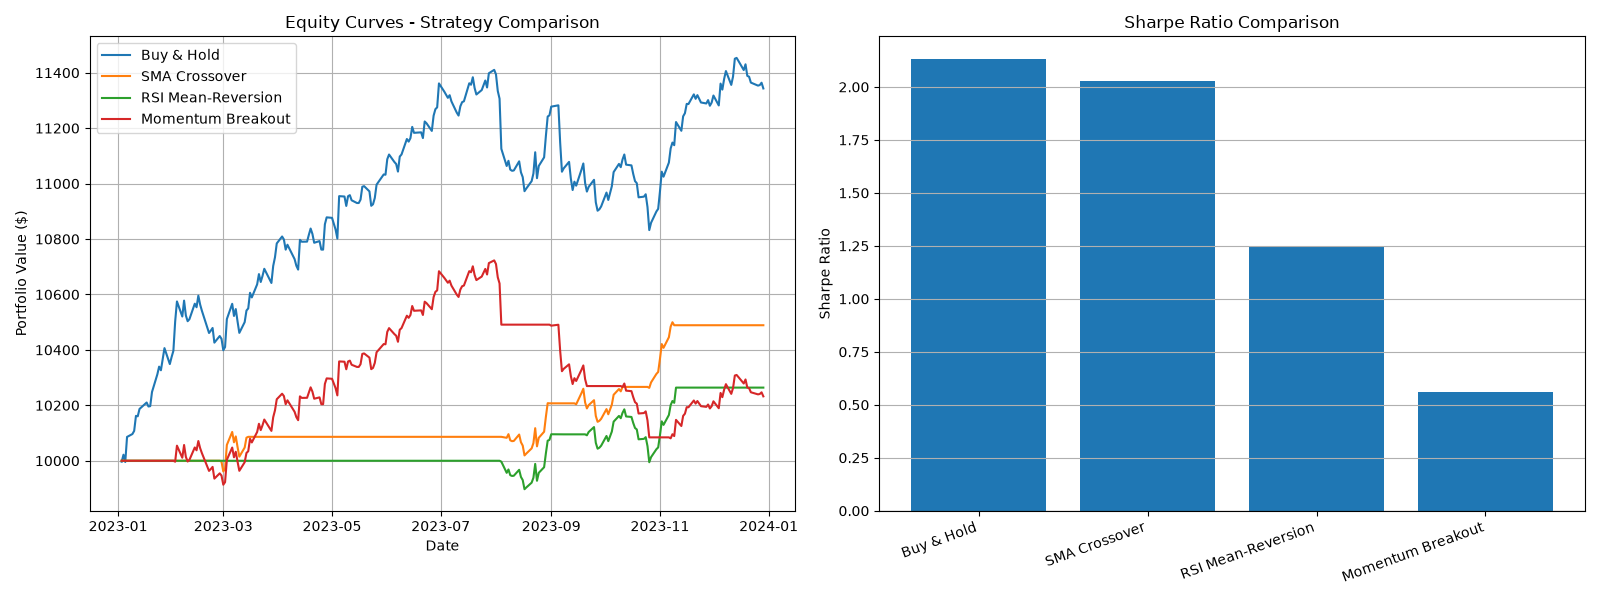
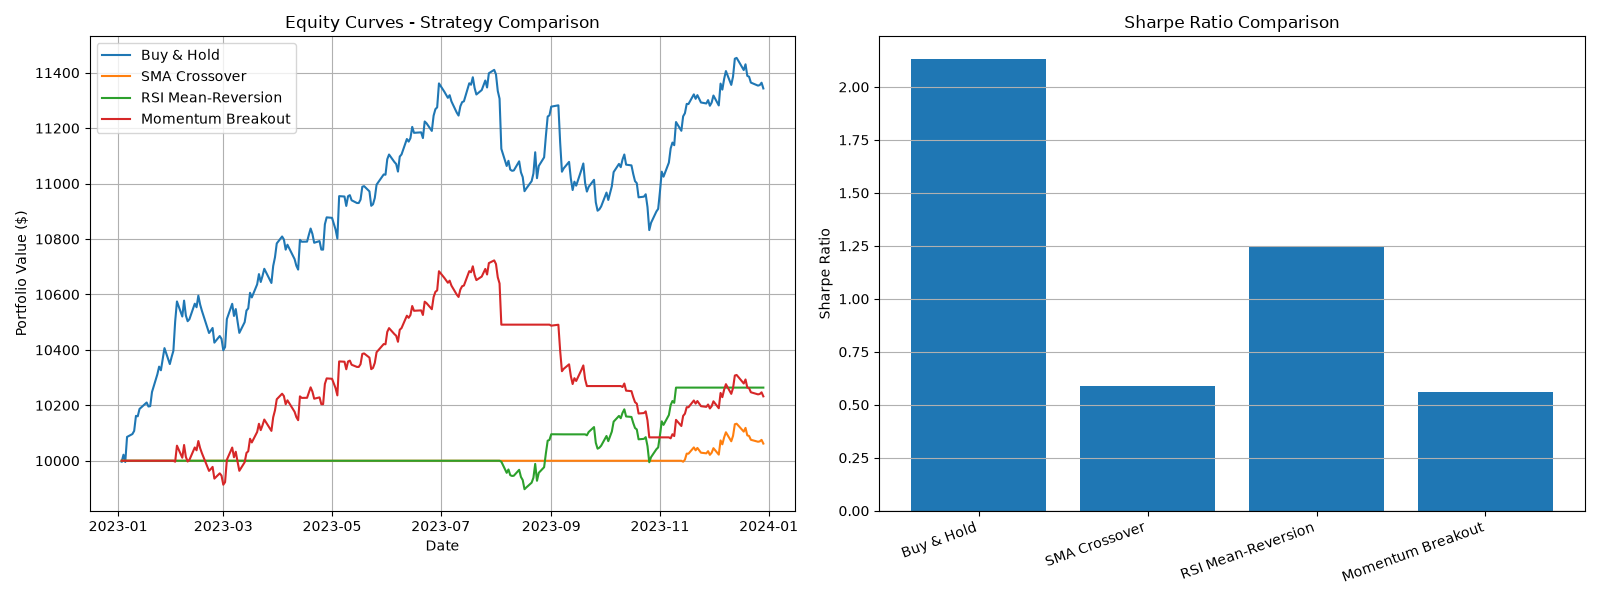
Rerun results after SMA fix (slow_window 50); retract earlier SMA conclusions; add win rate

diff --git a/main.py b/main.py
@@ -14,8 +14,10 @@ from engine.metrics import calculate_cagr
 from engine.metrics import calculate_sharpe
 from engine.metrics import calculate_sortino
 from engine.metrics import calculate_max_drawdown
+from engine.metrics import calculate_win_rate
 
-from engine.walk_forward import run_walk_forward
+
+from engine.walk_forward import run_walk_forward, split_by_year
 
 from engine.dashboard import plot_comparison
 
@@ -24,7 +26,6 @@ TICKER = "AAPL"
 
 if __name__ == "__main__":
     price_data = get_price_data(TICKER, start = "2023-01-01", end = "2024-01-01")
-
 
     # BL
     bh_curve, bh_portfolio = run_backtest(
@@ -81,6 +82,14 @@ if __name__ == "__main__":
     print("\n--- Walk-Forward Validation (2020-2023, yearly windows) ---")
     multi_year_data = get_price_data(TICKER, start="2020-01-01", end="2024-01-01")
 
+    print()
+    for name, pf in [("Buy & Hold", bh_portfolio), ("SMA Crossover", sma_portfolio),
+                     ("RSI Mean-Reversion", rsi_portfolio), ("Momentum Breakout", mom_portfolio)]:
+        wr = calculate_win_rate(pf.trade_log)
+        wr_text = "N/A (no closed trades)" if wr is None else f"{wr * 100:.1f}%"
+        print(f"{name} Win Rate: {wr_text}")
+
+    
     strategies = {
         "Buy & Hold": (generate_signal, None),
         "SMA Crossover": (sma_crossover.generate_signal, sma_crossover.prepare),
@@ -92,6 +101,15 @@ if __name__ == "__main__":
 
     wf_df = pd.DataFrame(wf_results)
     print(wf_df.to_string(index=False))
+
+    # temporary check: why do SMA and RSI share the same 2020 drawdown? delete after
+    window_2020 = split_by_year(multi_year_data)[2020]
+    for name in ("SMA Crossover", "RSI Mean-Reversion"):
+        fn, prep = strategies[name]
+        _, pf = run_backtest(window_2020, TICKER, fn, prepare_fn=prep, slippage_pct=0.001)
+        print(f"\n{name} 2020 trades:")
+        for t in pf.trade_log:
+            print(" ", t["Date"].date(), t["Side"], t["Quantity"], round(t["Fill price"], 2))
 
     curves = {
         "Buy & Hold": bh_curve,
@@ -108,6 +126,3 @@ if __name__ == "__main__":
     }
 
     plot_comparison(curves, metrics, output_path="dashboard.png")
-
-    
-    

diff --git a/README.md b/README.md
@@ -6,58 +6,73 @@ This is part of a 5-project, 5-month portfolio. Project 1 was a neural network f
 
 ## Status
 
-Week 3 complete (full risk-metric suite, walk-forward validation). Week 4 in progress: comparison dashboard, packaging, and unit tests for the metrics module are done. The lookahead/survivorship bias write-up in this README and the public write-up remain.
+Engine, four strategies, risk metrics (CAGR, Sharpe, Sortino, max drawdown, win rate), walk-forward testing, a comparison dashboard, packaging, and unit tests for the metrics are done. Still to do: testing on more than one ticker, tests for lookahead bias, a section on bias in this README, and a public write-up.
 
-## Main finding: no strategy wins in every regime
+## A correction
 
-Everything through Day 14 was tested on a single year (AAPL, 2023 — a strong, steady uptrend), and in that one year, Buy & Hold beat every active strategy on every metric. Extending the test to 2020–2023 changes the conclusion substantially:
+Until Day 21, the SMA Crossover strategy was running with the wrong parameters. Its `prepare()` function had `slow_window` defaulting to 10 instead of 50, so the "slow" average was shorter than the "fast" one and the strategy was buying when price weakened and selling when it strengthened, close to the opposite of the trend-following rule it was supposed to be. Every SMA number published here before that, and several conclusions built on them, were wrong.
 
-| Year | Regime | Best CAGR | Best Sharpe | Notable |
-|---|---|---|---|---|
-| 2020 | COVID crash + sharp recovery | Buy & Hold (19.3%) | Momentum Breakout (1.46) — nearly tied | Momentum genuinely competitive in a volatile, sharply-trending year |
-| 2021 | Continued uptrend, high volatility | Buy & Hold (9.2%) | **Momentum Breakout (1.74)** | Momentum beats Buy & Hold on a risk-adjusted basis |
-| 2022 | Bear market | Every strategy lost money | **SMA Crossover (−0.06, least negative)** | SMA lost far less than Buy & Hold — real downside protection |
-| 2023 | Steady, low-volatility uptrend | Buy & Hold (13.7%) | Buy & Hold (2.13) | Matches the single-year result from Days 11–14 |
+I found it because two strategies traded on the same day in 2020, and because SMA bought on a date when a 50-day average couldn't exist yet. After fixing the default I added a check that rejects `fast_window >= slow_window`. These were retracted:
 
-**No single strategy wins across all four years.** Buy & Hold's advantage is specific to steady, low-volatility uptrends. Momentum Breakout is strong in volatile, sharply-trending conditions despite being the weakest strategy in the 2023-only comparison. SMA Crossover's small drawdown in the single-year test becomes a real advantage in an actual down year, where every other strategy lost more.
+- "SMA is nearly as risk-efficient as Buy & Hold" and "SMA edges Buy & Hold on Sortino" (the corrected SMA is well behind in 2023).
+- "SMA gave real downside protection in 2022" (the corrected SMA had the worst Sharpe of the four that year).
 
-**Known limitation of the walk-forward test:** each yearly window runs independently, starting fresh — a strategy needing indicator history (SMA's 50-day window especially) loses signal capability for the first stretch of *every* year. This likely slightly understates strategies with longer lookback windows.
+Buy & Hold, RSI, and Momentum results were unaffected, since they don't use that file. The lesson I'm taking from it: results tables should not carry parameters typed by hand, and a parameter default is worth a test.
 
-## Comparison dashboard (AAPL, 2023)
+## Results
+
+AAPL, $10,000 starting cash, $1 commission per trade, 0.1% slippage, 25% position sizing. SMA Crossover uses 20/50-day windows. RSI and Momentum use the defaults in their strategy files.
+
+### 2023 only
+
+| Strategy | Final Value | CAGR | Sharpe | Sortino | Max Drawdown | Trades | Win Rate |
+|---|---|---|---|---|---|---|---|
+| Buy & Hold | $11,343.23 | 13.68% | 2.13 | 3.31 | −5.07% | 1 | n/a |
+| SMA Crossover | $10,061.97 | 0.63% | 0.59 | 0.99 | −0.71% | 1 | n/a |
+| RSI Mean-Reversion | $10,263.94 | 2.68% | 1.25 | 1.92 | −1.87% | 4 | 100% (2 of 2) |
+| Momentum Breakout | $10,232.34 | 2.36% | 0.56 | 0.83 | −5.99% | 7 | 33% (1 of 3) |
+
+Win rate counts only closed round trips (a buy followed by its sell). Buy & Hold never sells, and SMA bought once in 2023 and never sold, so neither has a win rate.
 
 ![Strategy comparison dashboard](dashboard.png)
 
-## Full single-year results (AAPL, 2023, for reference)
+### Walk-forward, 2020–2023 (each year run independently)
 
-$10,000 starting cash, $1 commission/trade, 0.1% slippage/trade, 25% position sizing.
+CAGR / Sharpe per year:
 
-| Strategy | Final Value | CAGR | Sharpe | Sortino | Max Drawdown | Trades |
-|---|---|---|---|---|---|---|
-| Buy & Hold | $11,343.23 | 13.68% | 2.13 | 3.31 | −5.07% | 1 |
-| SMA Crossover (20/50) | $10,488.97 | 4.96% | 2.03 | 3.50 | −1.16% | 8 |
-| RSI Mean-Reversion (14, 30/70) | $10,263.94 | 2.68% | 1.25 | 1.92 | −1.87% | 4 |
-| Momentum Breakout (20-day) | $10,232.34 | 2.36% | 0.56 | 0.83 | −5.99% | 7 |
+| Year | Buy & Hold | SMA Crossover | RSI Mean-Reversion | Momentum Breakout |
+|---|---|---|---|---|
+| 2020 | 19.3% / 1.45 | 16.7% / **1.84** | 0.1% / 0.05 | 13.0% / 1.46 |
+| 2021 | 9.2% / 1.41 | 4.1% / 0.95 | 2.1% / 0.59 | 7.9% / **1.74** |
+| 2022 | −7.1% / −0.91 | −5.8% / −1.38 | −5.0% / **−0.62** | −4.6% / −1.06 |
+| 2023 | 13.7% / **2.13** | 0.6% / 0.59 | 2.7% / 1.25 | 2.4% / 0.56 |
 
-## What's built so far
+Bold marks the best Sharpe each year. Trades per year: Buy & Hold 1, 1, 1, 1; SMA 3, 5, 8, 1; RSI 4, 6, 5, 4; Momentum 7, 5, 8, 7.
 
-- **`engine/data_loader.py`** — pulls daily OHLCV data via `yfinance`, caches it locally as CSV, filename keyed to ticker AND date range.
-- **`engine/order.py`** — validated trade instruction (dataclass).
-- **`engine/portfolio.py`** — cash, positions, trade log, and total value tracking.
-- **`engine/broker.py`** — validates and executes orders, models slippage alongside a flat commission.
-- **`engine/backtester.py`** — the event loop, with a `prepare_fn` hook for indicators and a `slippage_pct` parameter.
-- **`engine/position_sizing.py`** — caps each trade to a fixed percentage of available cash.
-- **`engine/metrics.py`** — `to_return_series()`, `calculate_cagr()`, `calculate_sharpe()`, `calculate_sortino()`, `calculate_max_drawdown()`.
-- **`engine/walk_forward.py`** — splits multi-year price data into yearly windows and runs every strategy on every window independently.
-- **`engine/dashboard.py`** — overlaid equity curve chart plus a Sharpe ratio bar chart.
-- **`strategies/buy_and_hold.py`**, **`sma_crossover.py`**, **`rsi_strategy.py`**, **`momentum_breakout.py`** — 4 strategies, all using shared position sizing.
-- **`tests/test_metrics.py`** — 5 pytest tests for the metrics module. Four check the functions against the hand-worked examples in `derivations.md` (CAGR, Sharpe, Sortino, max drawdown); one is an edge case (a strategy that only goes up has exactly 0 drawdown). The Sharpe and Sortino tests compare against full-precision values rather than the rounded hand answers, with a 0.1% tolerance. An earlier 2% tolerance let a deliberate 250-vs-252 trading-days error pass, so I tightened it and confirmed the tests fail on that error. Run with `python -m pytest`.
-- **`pyproject.toml`** — packages `engine/` and `strategies/` as an installable module (`pip install -e .`). Verified importable from outside the project folder with the venv active.
+What this does and doesn't show:
 
-Bugs hit and fixed across sessions: multiple typos, a missing `()` on `.pct_change`, a stray autocomplete import, a 0-byte unsaved file, a dict key naming mismatch, a cache-collision bug, and two separate environment problems while setting up tests. The `tests/` folder was missing its `__init__.py`, so pytest couldn't see the `engine` package, and `pytest` had been installed into the system Python rather than the venv. Using `python -m pip` and `python -m pytest` instead of bare `pip` and `pytest` avoids the second one.
+- Buy & Hold has the best CAGR in 2020, 2021, and 2023. In 2022 all four strategies lost money, and Momentum lost the least.
+- The best Sharpe goes to a different strategy every year. That looks like regime dependence, but each strategy closes only 1 to 5 round trips a year, so four different winners is also what chance would produce. Suggestive, not established.
+- SMA's good 2020 is a single winning round trip. Its 50-day warm-up kept it out of the market through the February–March crash, which helped it by accident, not by foresight.
+- Momentum's 2020 and 2021 are its strongest years and 2023 its weakest.
+
+**Walk-forward limitation:** each yearly window starts fresh, so a strategy that needs indicator history loses its first stretch of signals every year. SMA, with its 50-day window, is hit hardest, and this likely understates it.
+
+## What's built
+
+- **`engine/data_loader.py`** — daily OHLCV from `yfinance`, cached as CSV, filename keyed to ticker and date range.
+- **`engine/order.py`**, **`portfolio.py`**, **`broker.py`** — validated orders, cash and position tracking, execution with a flat commission and percentage slippage.
+- **`engine/backtester.py`** — the event loop, with a `prepare_fn` hook for indicators.
+- **`engine/position_sizing.py`** — caps each trade to a fixed share of available cash.
+- **`engine/metrics.py`** — daily returns, CAGR, Sharpe, Sortino, max drawdown, and win rate. Win rate returns `None` when nothing has closed.
+- **`engine/walk_forward.py`**, **`engine/dashboard.py`** — yearly-window testing and the comparison chart.
+- **`strategies/`** — buy-and-hold, SMA crossover, RSI mean-reversion, momentum breakout.
+- **`tests/test_metrics.py`** — 9 tests: the Sharpe, Sortino, CAGR, and drawdown functions against hand-worked examples, and win rate against a hand-worked three-trade example plus edge cases. The Sharpe and Sortino tolerances are 0.1%, tightened after a deliberate 250-vs-252 trading-days error got through at 2%. These do not test the strategies.
+- **`pyproject.toml`** — installable with `pip install -e .`.
 
 ## Tickers
 
-SPY, AAPL, MSFT, GOOGL, JPM planned. So far AAPL is the only one actually tested, across 2020–2023.
+SPY, AAPL, MSFT, GOOGL, JPM were planned. Only AAPL has been tested so far.
 
 ## Setup
 
@@ -68,12 +83,12 @@ pip install -r requirements.txt
 python main.py
 ```
 
-To use this engine in another project (editable install — local code changes take effect immediately, no reinstalling):
+To use the engine from another project (editable install):
 ```bash
 pip install -e .
 ```
 
-To run the tests:
+To run the tests (use `python -m`, so the venv's pytest is the one that runs):
 ```bash
 python -m pip install pytest
 python -m pytest
@@ -81,32 +96,25 @@ python -m pytest
 
 ## Notes and derivations
 
-`derivations.md` has photographed handwritten notes (finance terms, hand-worked calculations, architecture design, RSI, breakout `.shift(1)` reasoning, slippage, position sizing, CAGR, Sharpe, Sortino) paired with typed explanations, day by day.
+`derivations.md` has photographed handwritten notes paired with typed explanations, covering finance terms, the architecture, the indicator math, slippage, position sizing, CAGR, and Sharpe. Notes for Sortino, drawdown, and win rate are still to be added.
 
 ## Why build the engine instead of using a library
 
-Most student "algo trading" projects call `backtrader` or `zipline`, plot one equity curve, and call it done. That tests whether you can read documentation, not whether you understand what's happening between a signal and a filled trade — slippage, commissions, position sizing, what happens when you try to sell something you don't hold. Building it myself means I have to make those decisions explicitly instead of inheriting someone else's defaults.
+Most student "algo trading" projects call `backtrader` or `zipline`, plot one equity curve, and call it done. That tests whether you can read documentation, not whether you understand what's happening between a signal and a filled trade. Building it myself means making those decisions explicitly, and, as the correction above shows, being responsible when one of them is wrong.
 
-## Known limitations (will grow as the project does)
+## Known limitations
 
-- Walk-forward windows are independent, not chained — strategies with long lookback periods lose signal capability at the start of every window
-- Sharpe and Sortino use a risk-free rate / target of 0, not a real T-bill rate
-- Position sizing is a fixed percentage of cash, not volatility-based
-- Slippage model is a flat percentage, not dependent on order size or liquidity
-- Single-asset backtests only — no portfolio-level diversification
-- Only one ticker (AAPL) tested across the 4 walk-forward years
-- RSI uses simple rolling averages, not Wilder's exponential smoothing
-- Unit tests cover only `metrics.py`; the broker, portfolio, position sizing, and strategies have no automated tests, and nothing tests for lookahead bias
-- The event loop is *designed* to avoid lookahead bias but hasn't been actively tested against it
-- `requirements.txt` and `pyproject.toml` list the same dependencies in two places, kept in sync manually
+- **Same-bar execution.** A strategy sees today's close and is also filled at today's close. Real trading can't do that: you'd fill at the next open at the earliest. This is a known optimism in every result here. I chose to document it, not change it, so the numbers are unchanged, and the true results are likely somewhat worse, especially for strategies that trade often.
+- **Survivorship bias.** AAPL and the other planned tickers are companies that did well enough to still be household names. Testing on them with hindsight flatters buy-and-hold in particular.
+- **Lookahead bias.** The indicators use only past data by construction (`rolling()` and `shift()`), but there are no automated tests for it yet.
+- One ticker, four years: the regime findings above are too thin to generalize from.
+- Walk-forward windows run independently, not chained.
+- Sharpe and Sortino use a risk-free rate and target of 0.
+- Position sizing is a fixed percentage of cash, not volatility-based. Slippage is a flat percentage.
+- Unit tests cover only the metrics. No tests yet for the broker, portfolio, position sizing, or strategy parameters.
+- `requirements.txt` and `pyproject.toml` list the same dependencies by hand.
 
 ## Roadmap
 
-- **Week 1** ✅ complete — data layer, Order/Portfolio/Broker, event loop, buy-and-hold baseline, equity curve
-- **Week 2** ✅ complete — SMA crossover, RSI mean-reversion, momentum breakout, slippage modeling, position sizing
-- **Week 3** ✅ complete — CAGR, Sharpe, Sortino, max drawdown, walk-forward validation. Main finding: no strategy dominates across all market regimes
-- **Week 4** (current):
-  - Day 16 ✅ — comparison dashboard
-  - Day 17 ✅ — packaged as an installable module
-  - Day 18 ✅ — unit tests for the metrics module
-  - Remaining: README section on lookahead/survivorship bias, public write-up
+- **Weeks 1–3** done: data layer, engine, four strategies, slippage, position sizing, risk metrics, walk-forward.
+- **Week 4**: dashboard, packaging, and metrics tests done. Remaining: a regression test for strategy parameters, lookahead tests, the other four tickers, a README section on bias, and the public write-up.
